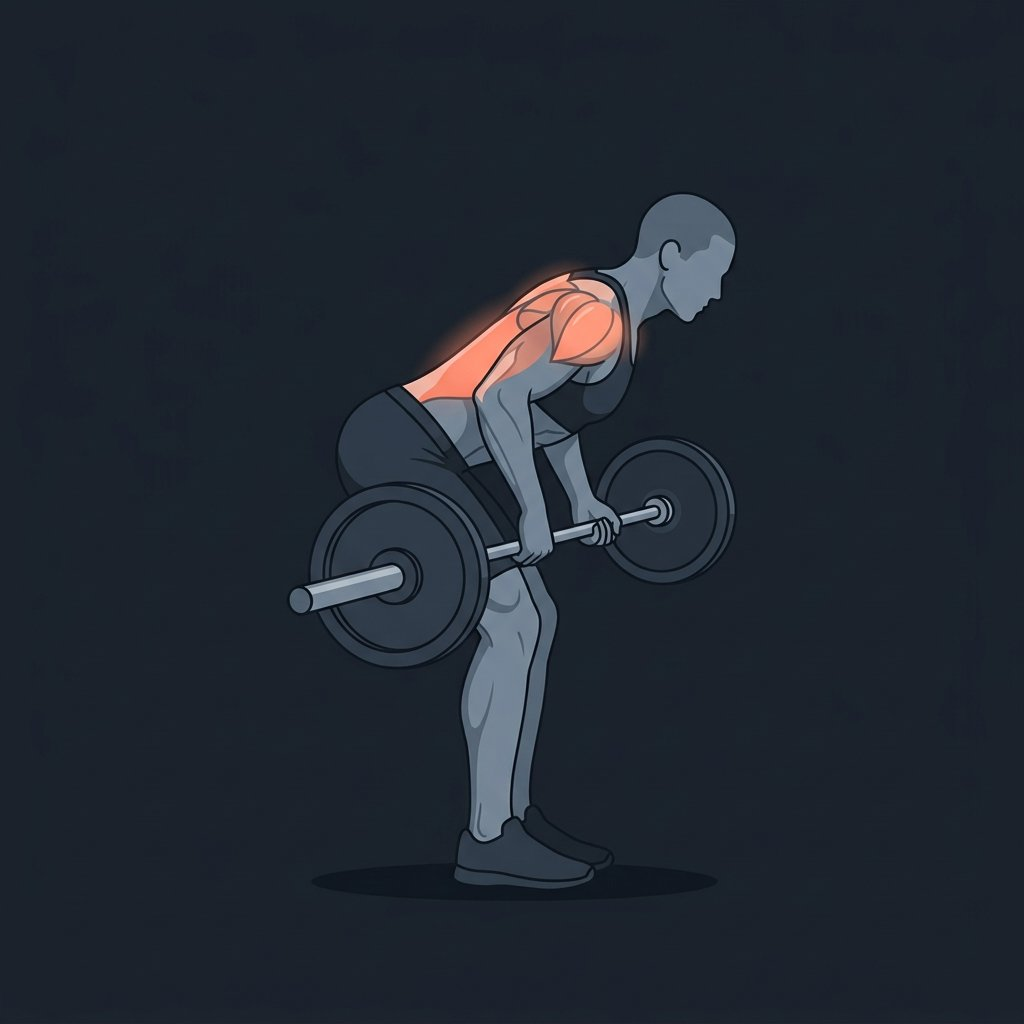
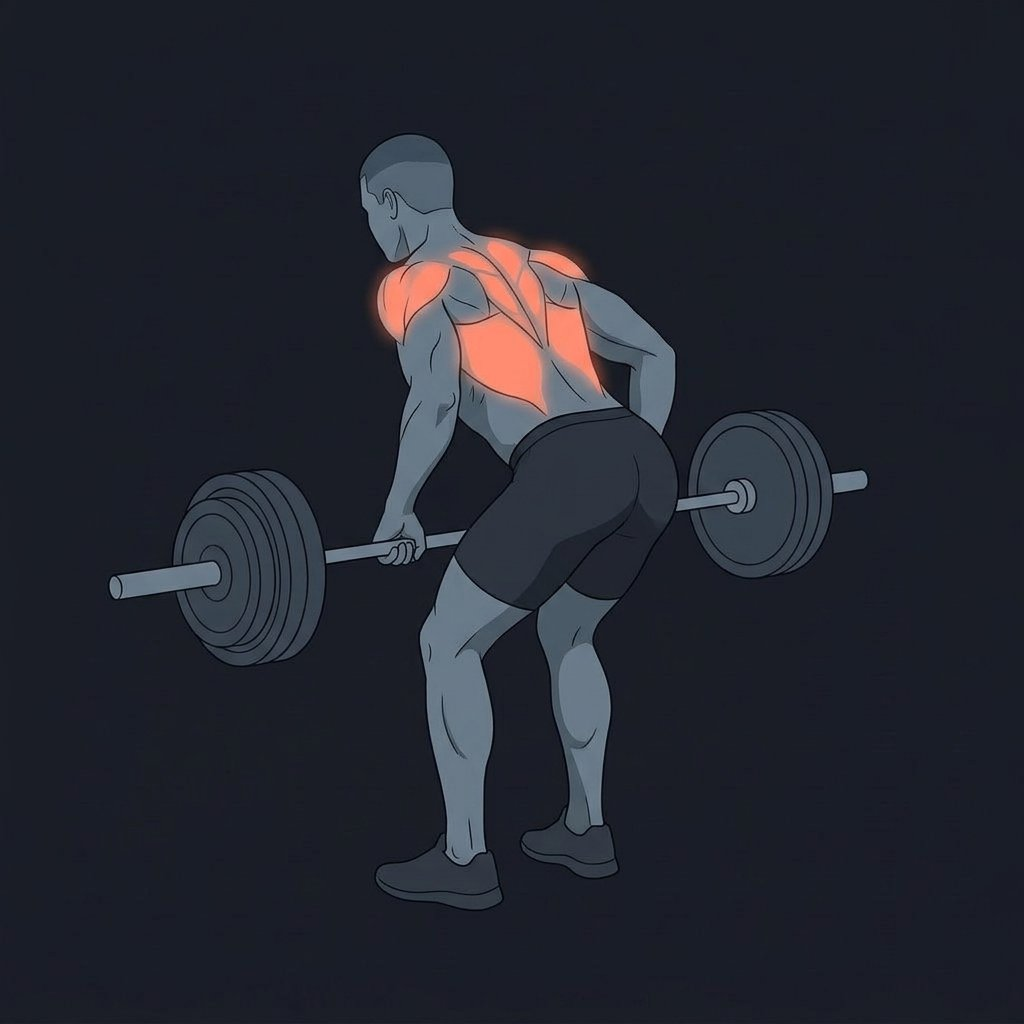
Unify male exercise illustration style and complete Day 1-2 AI assets

Changed region(s): [[0.0938, 0.125, 0.8438, 0.9062]]

diff --git a/src/lib/db.ts b/src/lib/db.ts
@@ -1896,10 +1896,16 @@ export function listRoutines(): Routine[] {
 
   return rows.map((r) => {
     const rawItems: RoutineExerciseItem[] = JSON.parse(String(r.items_json));
-    const items = rawItems.map((it) => ({
-      ...it,
-      imageUrl: it.imageUrl ? sanitizeImageUrl(it.imageUrl) : (exImageLookup.get(it.exerciseId) ?? null),
-    }));
+    const items = rawItems.map((it) => {
+      const clean = it.imageUrl ? sanitizeImageUrl(it.imageUrl) : null;
+      const isStaleDefaultAsset = Boolean(
+        clean && /^\/exercises\/[a-z0-9_]+\.(svg|jpg|jpeg|png)$/i.test(clean) && clean.startsWith(`/exercises/${it.exerciseId}.`)
+      );
+      return {
+        ...it,
+        imageUrl: !clean || isStaleDefaultAsset ? (exImageLookup.get(it.exerciseId) ?? clean) : clean,
+      };
+    });
     return {
       id: String(r.id),
       name: String(r.name),

diff --git a/src/components/WorkoutPlayer.tsx b/src/components/WorkoutPlayer.tsx
@@ -165,7 +165,8 @@ export default function WorkoutPlayer({
     if (spec.exerciseId in localExerciseImages) {
       return localExerciseImages[spec.exerciseId];
     }
-    return spec.imageUrl || exerciseImages?.[spec.exerciseId] || null;
+    const isDefaultAsset = Boolean(spec.imageUrl && spec.imageUrl.startsWith(`/exercises/${spec.exerciseId}.`));
+    return (isDefaultAsset ? exerciseImages?.[spec.exerciseId] : spec.imageUrl) || exerciseImages?.[spec.exerciseId] || null;
   }
 
   async function saveCustomExerciseImage(exerciseId: string, nextUrl: string | null) {

diff --git a/src/app/casa/page.tsx b/src/app/casa/page.tsx
@@ -161,7 +161,8 @@ export default function HomeWorkoutsPage() {
 
   const resolveItemImage = useCallback(
     (exerciseId: string, itemImageUrl?: string | null): string | null => {
-      return itemImageUrl || exerciseImagesMap[exerciseId] || null;
+      const isDefaultAsset = Boolean(itemImageUrl && itemImageUrl.startsWith(`/exercises/${exerciseId}.`));
+      return (isDefaultAsset ? exerciseImagesMap[exerciseId] : itemImageUrl) || exerciseImagesMap[exerciseId] || null;
     },
     [exerciseImagesMap]
   );

diff --git a/src/lib/home-workouts.ts b/src/lib/home-workouts.ts
@@ -130,6 +130,12 @@ const AI_EXERCISE_IMAGE_IDS = new Set([
   'ex_close_grip_pushup',
   'ex_pullups',
   'ex_bb_row',
+  'ex_db_one_arm_row',
+  'ex_cable_lat_pulldown',
+  'ex_db_rear_delt_fly',
+  'ex_bb_bicep_curl',
+  'ex_db_hammer_curl_strict',
+  'ex_bb_squat',
 ]);
 
 export function defaultExerciseImageUrl(id: string): string {
